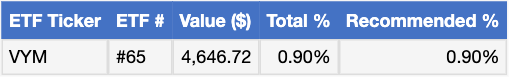
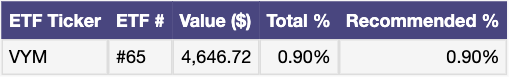
color changes

diff --git a/final-images/create_metrics_table.py b/final-images/create_metrics_table.py
@@ -19,12 +19,12 @@ def create_metrics_table(data, output_image='metrics_table.png'):
     # Style the dataframe
     styles = [
         {'selector': 'th', 'props': [
-            ('background-color', '#4472C4'),
+            ('background-color', '#49467F'),
             ('color', 'white'),
             ('font-weight', 'bold'),
             ('text-align', 'center'),
             ('font-size', '11pt'),
-            ('border', '1px solid #4472C4'),
+            ('border', '1px solid #49467F'),
             ('padding', '8px 12px')
         ]},
         {'selector': 'td', 'props': [

diff --git a/final-images/create_industry_table.py b/final-images/create_industry_table.py
@@ -101,12 +101,12 @@ def create_industry_table(input_csv, output_image='industry_table.png', max_rows
     
     styles = [
         {'selector': 'th', 'props': [
-            ('background-color', '#4472C4'),
+            ('background-color', '#49467F'),
             ('color', 'white'),
             ('font-weight', 'bold'),
             ('text-align', 'center'),
             ('font-size', '9pt'),
-            ('border', '1px solid #4472C4'),
+            ('border', '1px solid #49467F'),
             ('padding', '4px')
         ]},
         {'selector': 'td', 'props': [

diff --git a/final-images/etf-table.py b/final-images/etf-table.py
@@ -27,12 +27,12 @@ def create_single_column_table(input_csv, output_image='etf_table_output.png'):
     
     styles = [
         {'selector': 'th', 'props': [
-            ('background-color', '#4472C4'),
+            ('background-color', '#49467F'),
             ('color', 'white'),
             ('font-weight', 'bold'),
             ('text-align', 'center'),
             ('font-size', '9pt'),
-            ('border', '1px solid #4472C4'),
+            ('border', '1px solid #49467F'),
             ('padding', '4px')
         ]},
         {'selector': 'td', 'props': [

diff --git a/final-images/create_table.py b/final-images/create_table.py
@@ -52,12 +52,12 @@ def create_two_column_table(input_csv, output_image='table_output.png'):
     
     styles = [
         {'selector': 'th', 'props': [
-            ('background-color', '#4472C4'),
+            ('background-color', '#49467F'),
             ('color', 'white'),
             ('font-weight', 'bold'),
             ('text-align', 'center'),
             ('font-size', '9pt'),
-            ('border', '1px solid #4472C4'),
+            ('border', '1px solid #49467F'),
             ('padding', '4px')
         ]},
         {'selector': 'td', 'props': [
